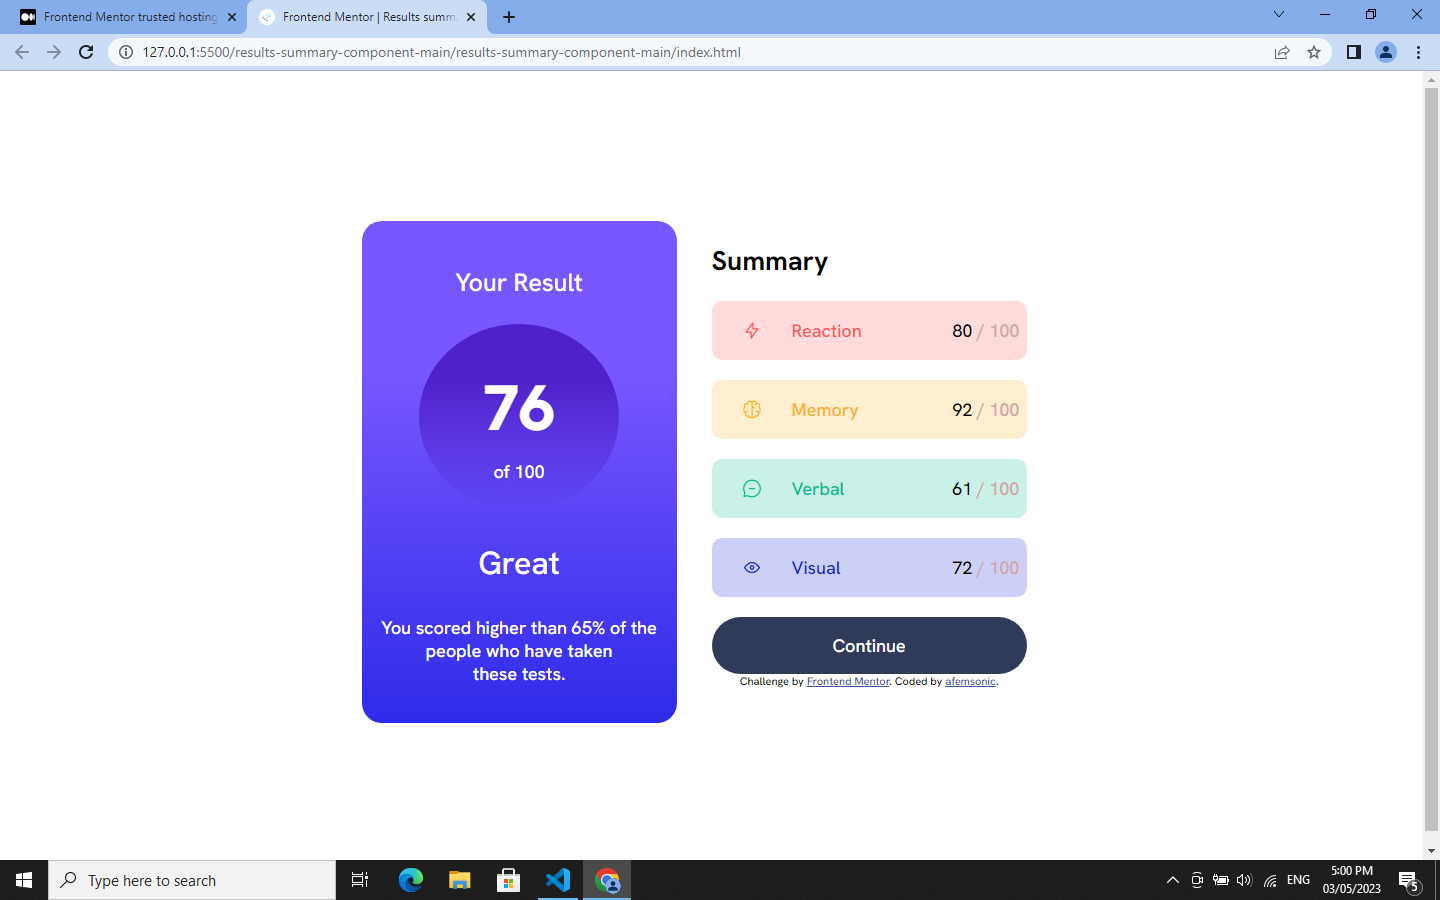
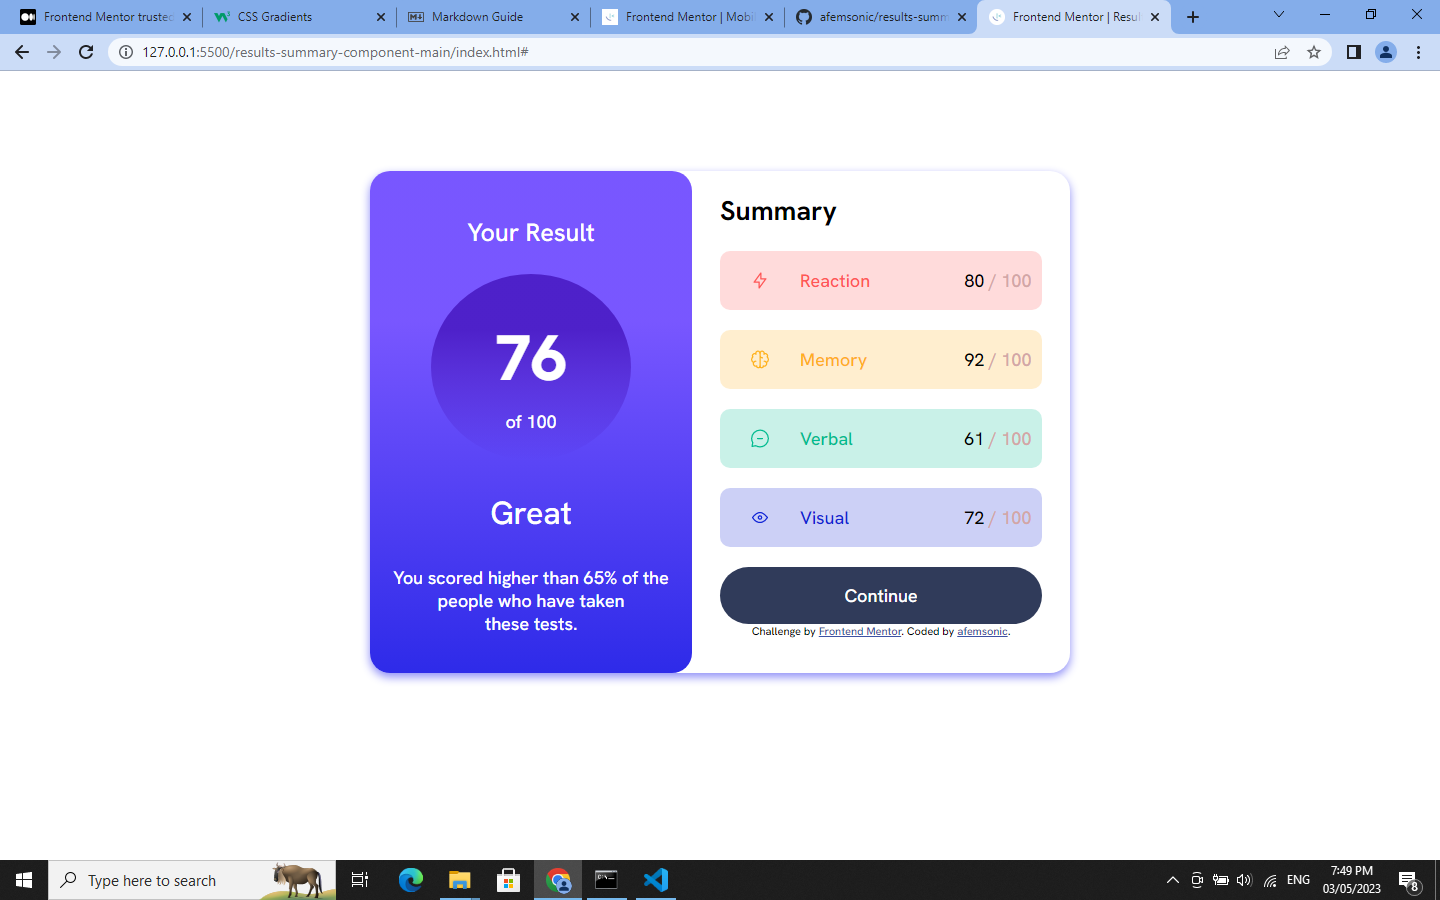
box-shadow effectwas added

diff --git a/assets/result-style.css b/assets/result-style.css
@@ -23,7 +23,7 @@ main{
     ;
     color: #fff;
     text-align: center;
-    border-radius: 20px;
+    border-radius:20px;
     padding: 20px 0;
 }
 
@@ -62,7 +62,6 @@ img{
 .second-section{
 width: 90%;
 margin: 0 auto;
-
 }
 
 .flex-container{
@@ -71,25 +70,18 @@ display: flex;
 margin-bottom: 20px;
 ;
 border-radius: 10px;
-/* justify-content: space-between; */
 }
 
 .flex-container img{
 margin: 0 30px;
 }
 
-/* .numbers{
-margin-left:50%;
-} */
 .criteria{
     width: 15%;
     /* outline: 2px solid red; */
     margin-right: 26vw;
 }
 
-/* .num{
-    margin-left:53%;
-} */
 
 .but{
 text-decoration: none;
@@ -149,18 +141,21 @@ color: #fff;
 
 
 .second-section,.hero{
-    width: 45%;
+    width: 46%;
+}
+
+body{
+    padding: 100px 0;
 }
 
 main{
     display: flex;
-    width: 80%;
-    /* justify-content: center; */
-    /* align-items: space-between;  */
-    justify-content: space-between;
+    width: 70%;
     margin: 0 auto;
     max-width: 700px;
-    padding: 150px 0px;
+    box-shadow:0px 4px 10px rgb(141, 141, 247);
+    border-radius: 20px;
+
 }
 
 .criteria{
@@ -179,7 +174,4 @@ main{
     display: block;
 }
 
-.second-section{
-box-shadow:2px ;
-}
 }
